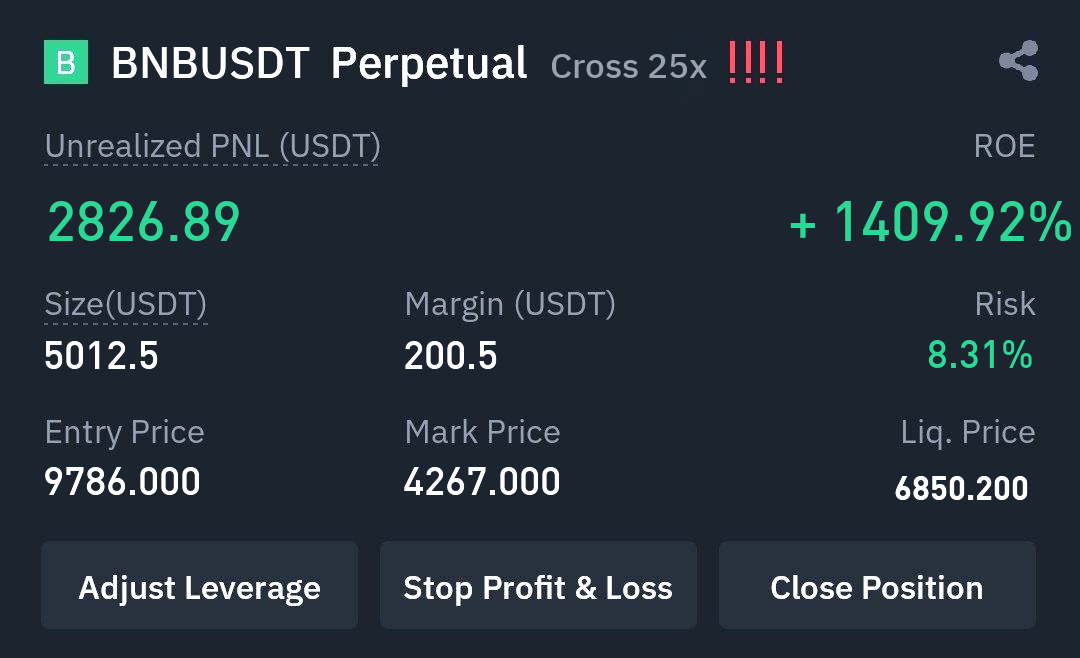
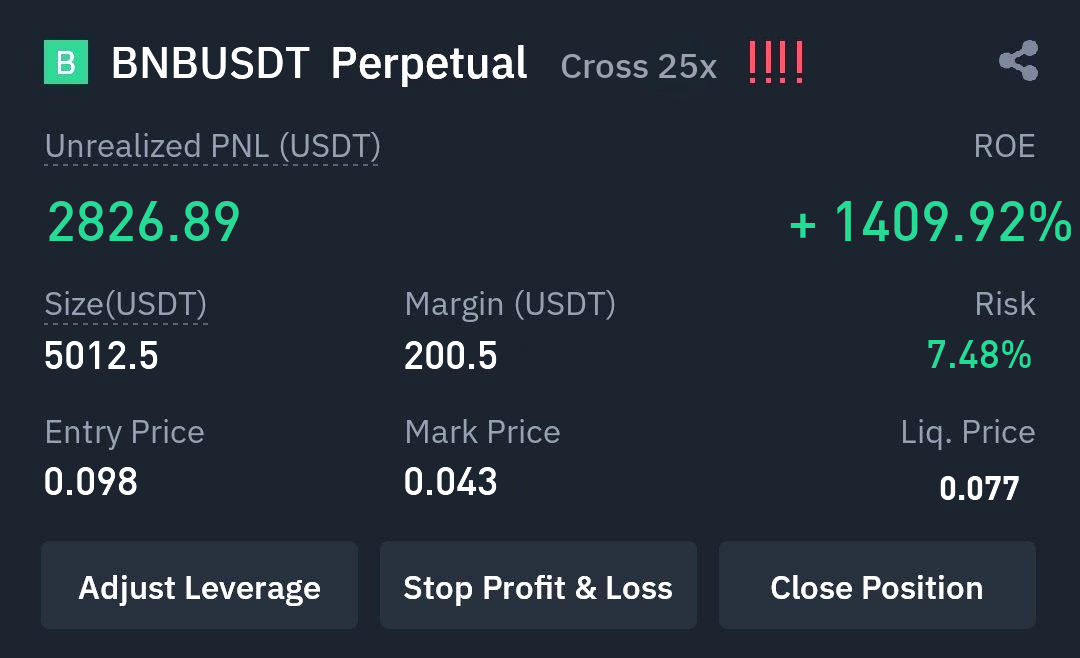
hug

diff --git a/image_module/main.py b/image_module/main.py
@@ -152,10 +152,10 @@ class MODIFICATION:
                 print("You've forgotten to enter the Value :)")"""
 
             mask_position = (725,36)
-            Position_1 = (728+t,36)
-            Position_2 = (744+t,36)
-            Position_3 = (758+t,36)
-            Position_4 = (775+t,36)
+            Position_1 = (728+20+t,36)
+            Position_2 = (744+t+20,36)
+            Position_3 = (758+t+20,36)
+            Position_4 = (775+t+20,36)
 
             mask = Image.open('mask.jpg')
             self.img.paste(mask, mask_position)
@@ -198,7 +198,7 @@ class MODIFICATION:
         ## Cross
         #550
         font_ = ImageFont.truetype("fonts/IBMPlexArabic-Medium.ttf", 35)
-        draw.text((550+t,40), self.cross, (136,142,154), font=font_)
+        draw.text((560+t,40), self.cross, (136,142,154), font=font_)
 
         #Enhance Sharpness
         self.img=Sharpness(self.img).enhance(factor=1)

diff --git a/card_gen/gen.py b/card_gen/gen.py
@@ -68,6 +68,7 @@ class Generator :
             liq=str(float(self.entry_price)+float(self.entry_price)*randint(20,30)*0.01)
         risk=str(round(randint(2,7)+uniform(1.1,1.9),2))
         liq=self._round_up(number=float(liq),decimals=self.place)
+        print(f'lid-{liq}')
         if float(liq)< 0.001 :
             liq="--"
 

diff --git a/handler/handle.py b/handler/handle.py
@@ -17,7 +17,7 @@ def hanlde_data(message:Message,bot):
         print(e)
         bot.send_message(message.from_user.id,text="Some error occured with binance api")
         return
-    print(result.json())
+    #print(result.json())
     if result.status_code !=200:
         print("something went wrong")
         return

diff --git a/bot/__init__.py b/bot/__init__.py
@@ -1,4 +1,5 @@
 from telebot import TeleBot
 import os
 apikey=os.getenv('TOKEN')
+#apikey='1649598540:AAE0Q-XfbHkfsqrEr6LfyDJDBbYF7vq0uUE'
 bot=TeleBot(apikey)
